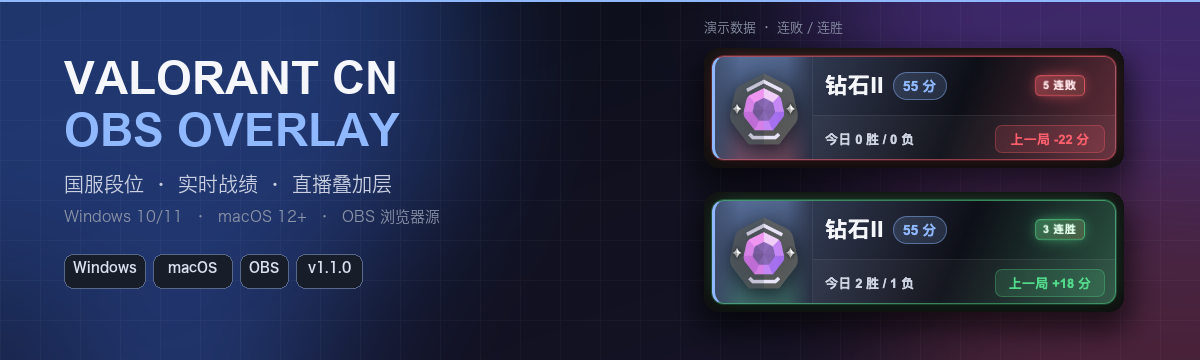
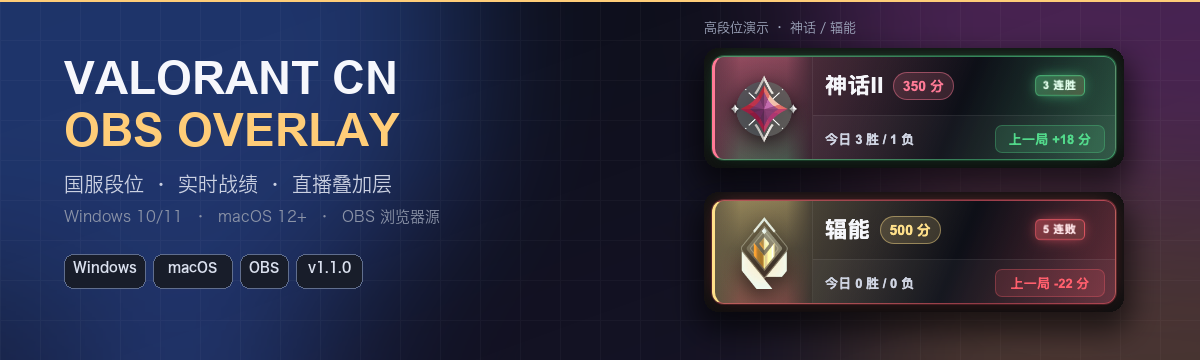
docs: showcase immortal and radiant UI states

diff --git a/README.md b/README.md
@@ -27,17 +27,28 @@
 ## 效果预览
 
 <p align="center">
-  <img src="docs/images/overlay-loss.png" width="420" alt="连败效果：红色呼吸">
-  <img src="docs/images/overlay-win.png" width="420" alt="连胜效果：绿色呼吸">
+  <img src="docs/images/overlay-immortal-win.png" width="420" alt="神话II 3 连胜：绿色呼吸">
+  <img src="docs/images/overlay-radiant-loss.png" width="420" alt="辐能 5 连败：红色呼吸">
 </p>
 
-<p align="center"><sub>演示数据 · 连败红色呼吸 / 连胜绿色呼吸 · 达到 2 场触发</sub></p>
+<p align="center"><sub>神话II · 3 连胜（绿色呼吸） / 辐能 · 5 连败（红色呼吸）</sub></p>
 
 <p align="center">
-  <img src="docs/images/status-page.png" width="720" alt="本机状态页">
+  <img src="docs/images/overlay-immortal-loss.png" width="420" alt="神话II 5 连败：红色呼吸">
+  <img src="docs/images/overlay-radiant-win.png" width="420" alt="辐能 3 连胜：绿色呼吸">
 </p>
 
-<p align="center"><sub>本机状态页：段位、RR、今日战绩、上一局、连胜/连败、错误与评分来源</sub></p>
+<p align="center"><sub>神话II · 5 连败 / 辐能 · 3 连胜</sub></p>
+
+<p align="center">
+  <img src="docs/images/status-page.png" width="720" alt="辐能状态页">
+</p>
+
+<p align="center"><sub>本机状态页：辐能 · 500 分 · 3 连胜 · 今日 3 胜 / 1 负</sub></p>
+
+<blockquote>
+<p><b>UI 细节</b>：段位主色会跟着段位变化（神话为粉红、辐能为金色），再叠加上一局胜负色；连胜/连败徽章和整卡呼吸同频，达到 2 场才触发。</p>
+</blockquote>
 
 ## 特性
 
